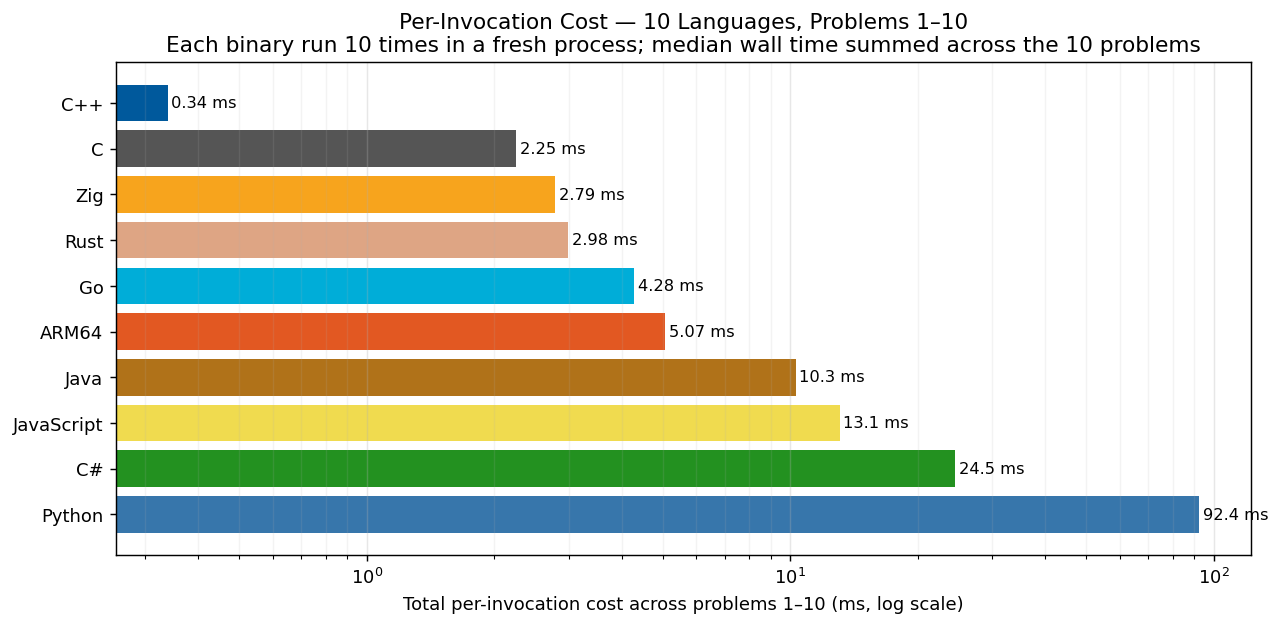
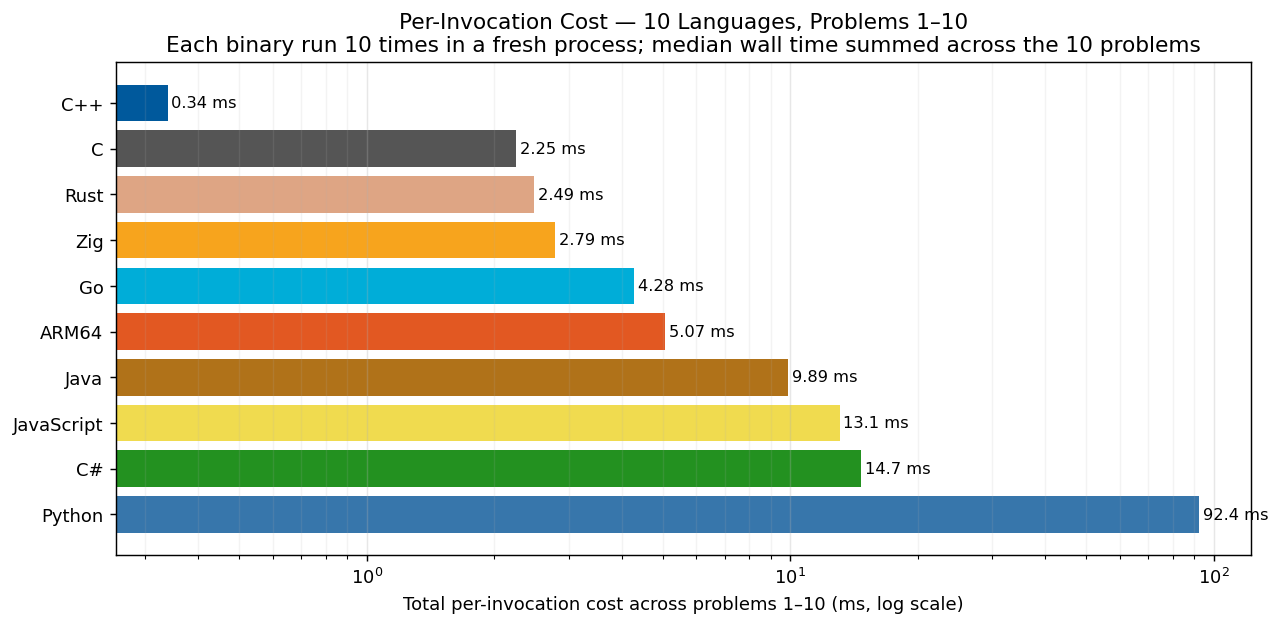
bench refresh: Java p001/p008 + C# p005/p008 + Rust p007 idiom cleanups (rankings shift)

Changed region(s): [[0.0312, 0.2732, 0.4996, 0.4249], [0.6557, 0.6981, 0.8119, 0.7891], [0.5933, 0.5767, 0.687, 0.6374]]

diff --git a/RESULTS.md b/RESULTS.md
@@ -19,13 +19,13 @@ the headline per-problem number, and we sum across the 10 problems for the total
 |------|----------|--------------------:|-----------:|
 | 1 | **C++** | 338.7 µs | 1.00× |
 | 2 | **C** | 2.25 ms | 6.65× |
-| 3 | **Zig** | 2.79 ms | 8.23× |
-| 4 | **Rust** | 2.98 ms | 8.81× |
+| 3 | **Rust** | 2.49 ms | 7.34× |
+| 4 | **Zig** | 2.79 ms | 8.23× |
 | 5 | **Go** | 4.28 ms | 12.63× |
 | 6 | **ARM64** | 5.07 ms | 14.96× |
-| 7 | **Java** | 10.29 ms | 30.38× |
+| 7 | **Java** | 9.89 ms | 29.21× |
 | 8 | **JavaScript** | 13.07 ms | 38.60× |
-| 9 | **C#** | 24.50 ms | 72.35× |
+| 9 | **C#** | 14.71 ms | 43.44× |
 | 10 | **Python** | 92.43 ms | 272.94× |
 
 ## Per-Problem Detail
@@ -37,13 +37,13 @@ are sorted by total (fastest language at top).
 |----------|----:|----:|----:|----:|----:|----:|----:|----:|----:|----:|
 | **C++** | 84 ns | 84 ns | 27.1 µs | 25.0 µs | 333 ns | 83 ns | 21.6 µs | 3.1 µs | 333 ns | 261.0 µs |
 | **C** | 41 ns | 42 ns | 750 ns | 3.5 µs | 375 ns | 41 ns | 170.7 µs | 1.2 µs | 250 ns | 2.07 ms |
+| **Rust** | 1.2 µs | 83 ns | 28.1 µs | 13.9 µs | 417 ns | 42 ns | 381.2 µs | 9.7 µs | 250 ns | 2.05 ms |
 | **Zig** | 42 ns | 83 ns | 833 ns | 3.9 µs | 625 ns | 83 ns | 524.5 µs | 1.8 µs | 292 ns | 2.25 ms |
-| **Rust** | 1.2 µs | 84 ns | 28.2 µs | 13.3 µs | 417 ns | 42 ns | 849.4 µs | 9.3 µs | 250 ns | 2.08 ms |
 | **Go** | 2.0 µs | 1.7 µs | 2.3 µs | 4.9 µs | 2.2 µs | 1.4 µs | 348.3 µs | 5.1 µs | 2.0 µs | 3.91 ms |
 | **ARM64** | 2.0 µs | 0 ns | 1.0 µs | 2.0 µs | 1.0 µs | 0 ns | 289.0 µs | 3.0 µs | 1.0 µs | 4.77 ms |
-| **Java** | 23.3 µs | 3.0 µs | 8.3 µs | 292.2 µs | 4.4 µs | 2.2 µs | 1.57 ms | 307.8 µs | 6.1 µs | 8.07 ms |
+| **Java** | 3.2 µs | 3.5 µs | 8.2 µs | 295.8 µs | 4.7 µs | 2.4 µs | 1.57 ms | 59.5 µs | 6.6 µs | 7.93 ms |
 | **JavaScript** | 16.3 µs | 11.7 µs | 54.8 µs | 91.3 µs | 28.8 µs | 6.8 µs | 2.65 ms | 95.7 µs | 27.7 µs | 10.09 ms |
-| **C#** | 298.8 µs | 267.0 µs | 1.81 ms | 307.5 µs | 2.03 ms | 210.5 µs | 919.5 µs | 8.07 ms | 663.5 µs | 9.93 ms |
+| **C#** | 255.9 µs | 243.3 µs | 1.88 ms | 278.2 µs | — | 206.0 µs | 920.0 µs | — | 654.5 µs | 10.27 ms |
 | **Python** | 1.7 µs | 2.8 µs | 7.69 ms | 55.45 ms | 28.1 µs | 5.7 µs | 1.39 ms | 863.3 µs | 4.67 ms | 22.33 ms |
 
 ## Method
